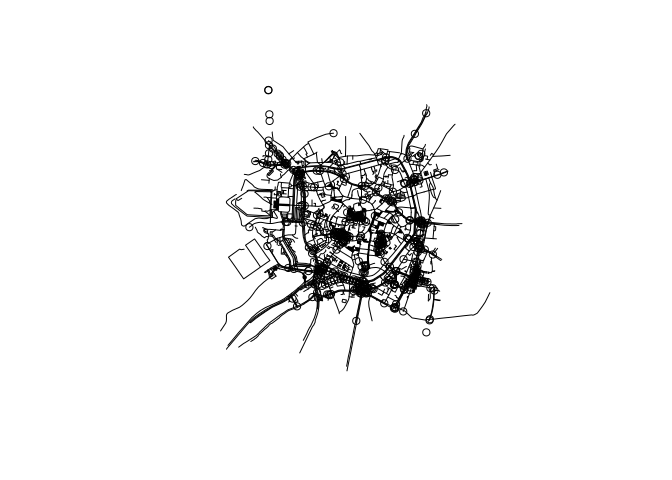
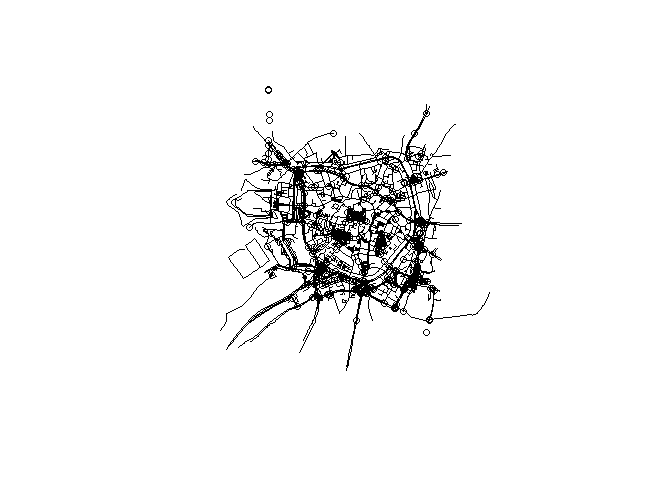
added plot for dodgr merge_directed_flow

diff --git a/README.md b/README.md
@@ -13,9 +13,11 @@ We’ll use the following packages:
 library(sf)
 library(osmdata)
 library(dodgr)
+#> Warning: package 'dodgr' was built under R version 3.5.2
 library(stplanr)
 library(dplyr)
 library(piggyback)
+#> Warning: package 'piggyback' was built under R version 3.5.2
 ```
 
 # Data
@@ -43,7 +45,9 @@ The minimum dataset can be read-in as follows:
 
 ``` r
 pb_download("promenade-min.geojson")
-#> ✔ Setting active project to '/home/robin/repos/spnethack'
+#> Warning in get_token(): Using default public GITHUB_TOKEN.
+#>                      Please set your own token
+#> <U+2714> Setting active project to 'C:/Users/Lore/Documents/spnethack'
 #> All files up-to-date already
 promenade_min = read_sf("promenade-min.geojson")
 plot(promenade_min$geometry)
@@ -55,6 +59,8 @@ A slightly larger dataset can be read-in and plotted as follows:
 
 ``` r
 pb_download("promenade-way.geojson")
+#> Warning in get_token(): Using default public GITHUB_TOKEN.
+#>                      Please set your own token
 #> All files up-to-date already
 promenade_way = geojsonsf::geojson_sf("promenade-way.geojson")
 plot(promenade_way$geometry)
@@ -62,7 +68,7 @@ plot(promenade_way$geometry)
 
 ![](README_files/figure-gfm/pway-1.png)<!-- -->
 
-## From osmdata 
+## From osmdata
 
 ``` r
 promenade_osmdata = opq(bbox = 'Muenster, DE') %>% 
@@ -91,11 +97,18 @@ source(file = "stplanr-promenade.R")
 
 ## Route networks with dodgr
 
-An example of how to create route data from sample points along the edges can be found `dodgr-promenade.R`, it can also generate a flow aggregate which is quite similar to the betweenness.
+An example of how to create route data from sample points along the
+edges can be found `dodgr-promenade.R`, it can also generate a flow
+aggregate which is quite similar to the betweenness.
 
 ``` r
 source(file = "dodgr-promenade.R")
+
+dodgr_flowmap(graph_f, linescale = 5)
 ```
+
+To do this we sample 100 000 points on the `to` column and the same
+number on the `from`, and it takes 0.6 sec.
 
 ## Route networks with sfnetworks
 
